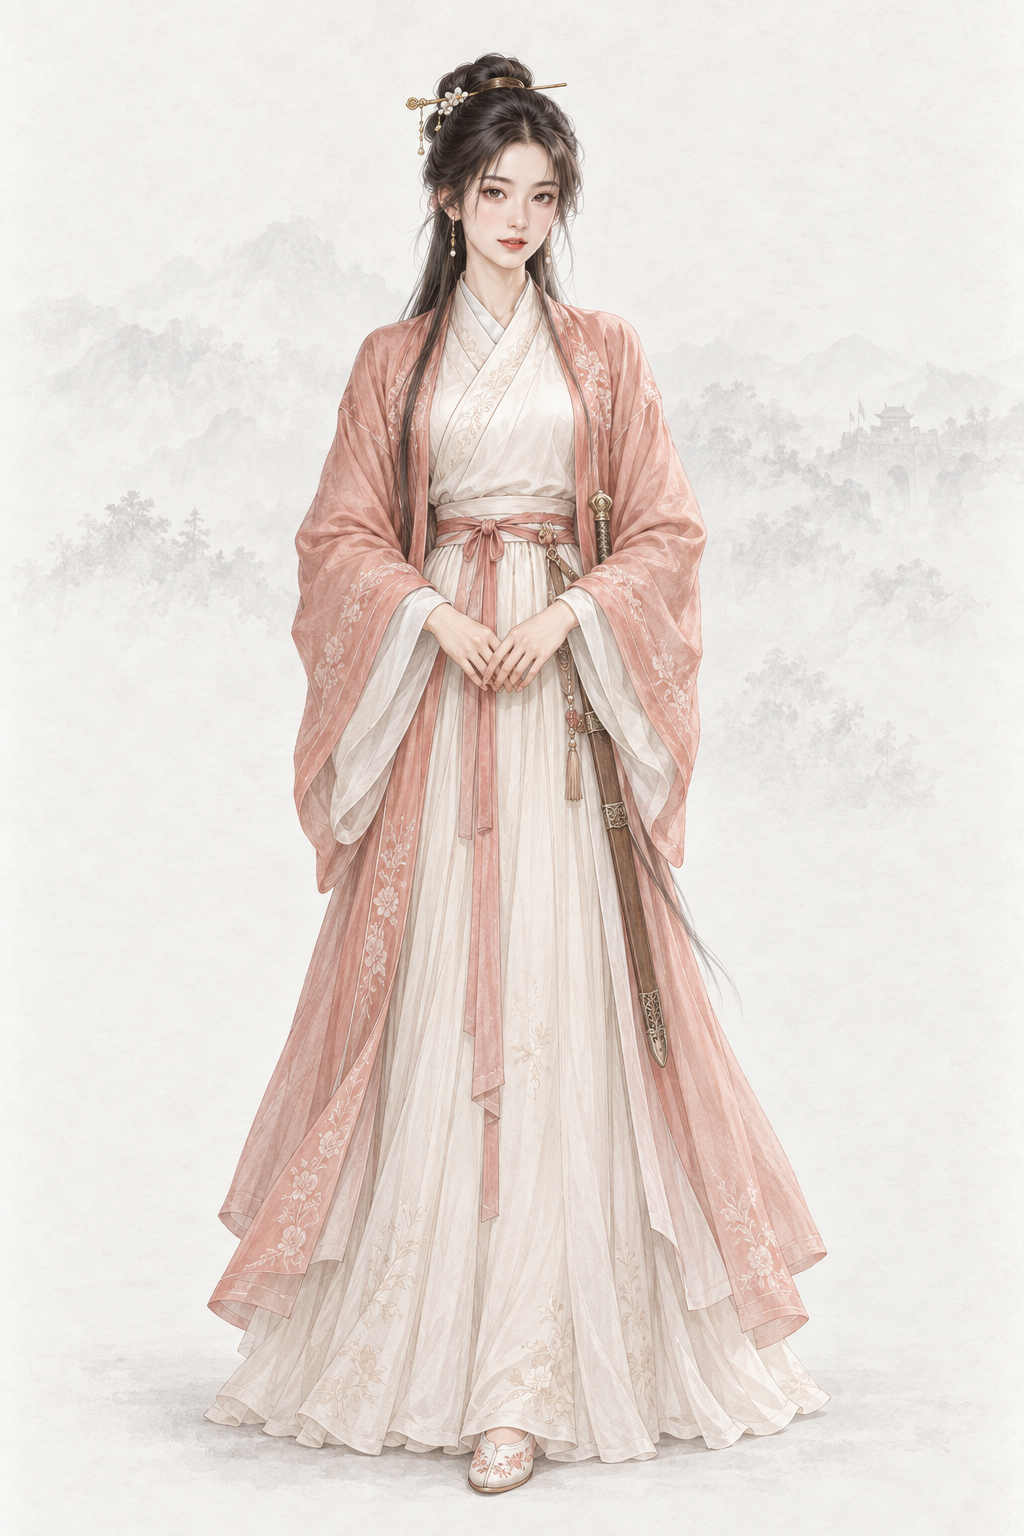
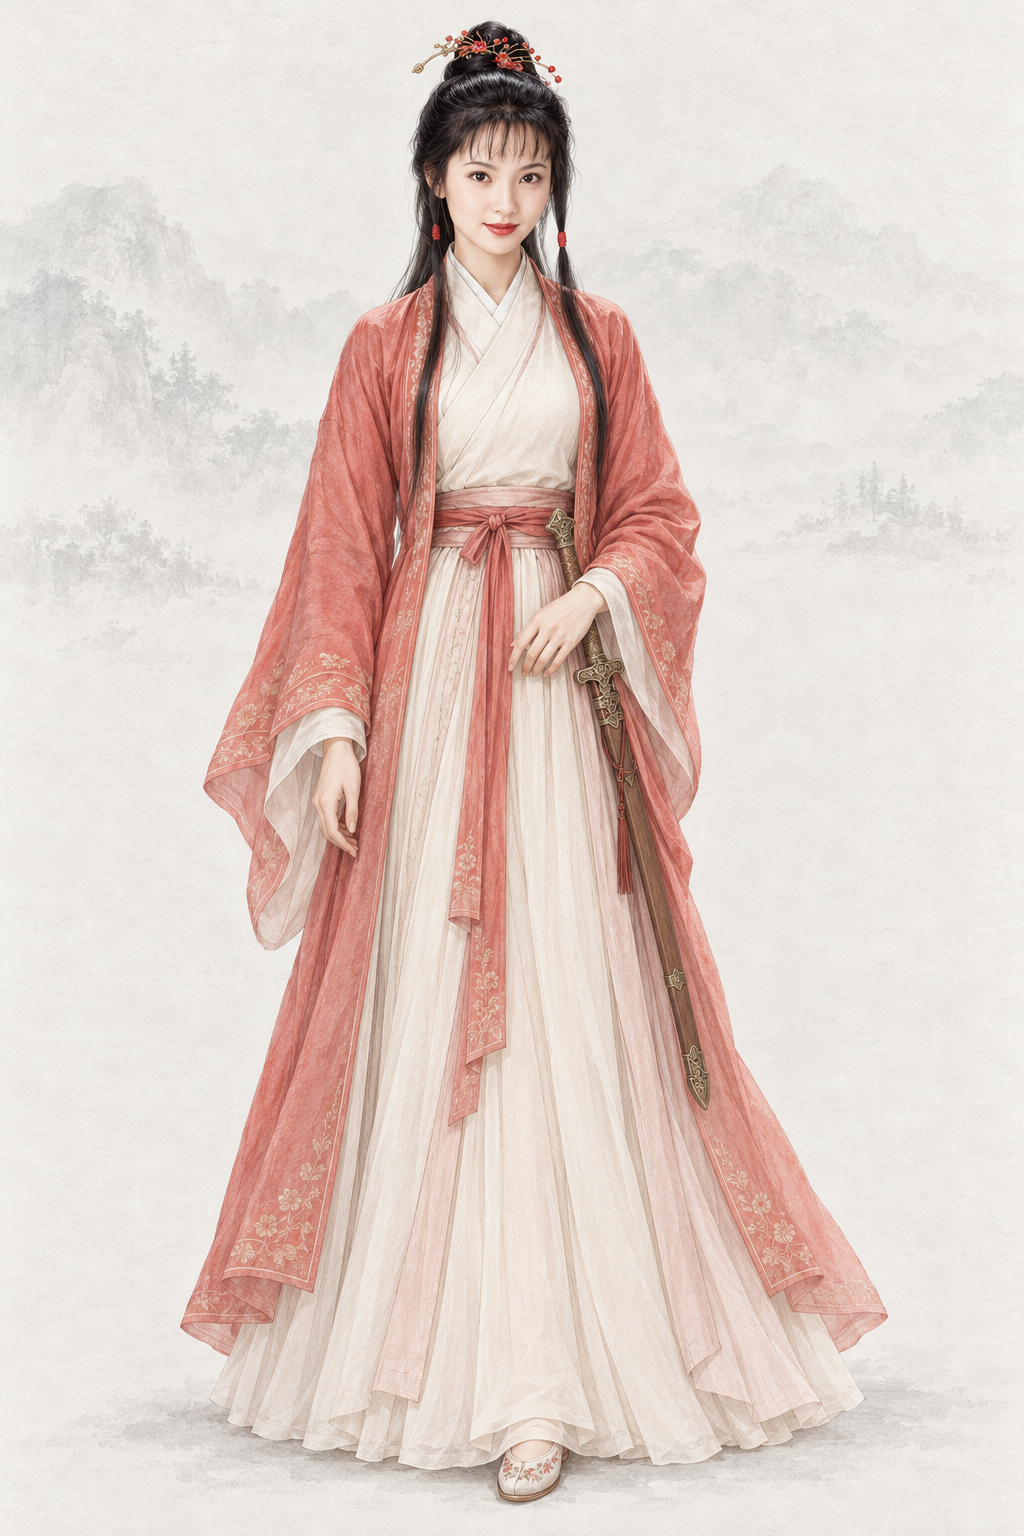
assets(character): por_npc_guofu__ch03_youth_preinjury_base 郭芙（codex · AR-32 经典剧照 + 基线）
参考 1995 TVB《神雕侠侣》 剧照（guofu_1995_fumingxian.jpg）与两张同性别基线重出；提示词写回、frontmatter 加 classic_ref。

diff --git a/assets/default/prompts/characters/ch03-shendiao/npc_guofu.md b/assets/default/prompts/characters/ch03-shendiao/npc_guofu.md
@@ -18,13 +18,40 @@ references:
 status: redo
 realism_revision: user_identity_pose_20261001
 redo_reason: "旧图以剧照为第一身份参考生成（A 级肖像风险；REVIEW-portraits-A 待作者裁定项，按默认重出），按原著外貌用文字原创重做"
-reference_upload: []
+reference_upload:
+- .agents/coord/imagegen-reference/identity-20261001/shendiao/guofu_1995_fumingxian.jpg
+- assets/default/baseline/character/female/ref_npc_wangyuyan__ch01_base01.png
+- assets/default/baseline/character/female/ref_npc_xiaolongnv__ch03_base01.png
 codex_prompt_rev: 2026-10-02
+classic_ref:
+  version: 1995 TVB《神雕侠侣》
+  stills:
+  - .agents/coord/imagegen-reference/identity-20261001/shendiao/guofu_1995_fumingxian.jpg
 ---
 
 # 郭芙 · 人物写实修正
 
 ## Gemini 提示词
+
+> 2026-10-02 AR-32 重出（5 号出图员，codex exec · image_gen）：主要角色改为参考经典影视版剧照加项目基线生成。上传顺序：1995 TVB《神雕侠侣》 剧照 1 张（guofu_1995_fumingxian.jpg），最后两张为同性别画风基线（缩小版 JPEG）。剧照只借造型、气质与面部特征，画面按项目画风重绘、不复制照片。上一版（AR-31 文字版）保留在下一节作历史。
+
+```text
+生成一张 2:3 竖幅全身人物立绘：单人、单一视角、完整全身——头顶、双手、双脚和手中器物的两端都在画面内，四周留出自然空白；人物站姿自然，身体基本朝向正面，头部端正（不歪头、不仰不俯），镜头平视。
+【画风】写实手绘古风人物插画，与本项目写实武侠角色立绘同一画风，像功力深厚的画师用细腻笔触画出的真实美人。手绘插画质感，不是 CG 渲染：不要过度光滑的皮肤、完美对称的五官、塑料高光、过度锐利的发丝；保留自然的笔触和细微不完美。肌肤细腻自然，看得见极细的肤理和自然的左右不对称，不磨皮、不油亮、不打粉；头发是一缕缕自然的发丝和少量碎发；布料看得出经纬纹理、厚薄和自然垂坠的褶皱，干净完整；整体设色低饱和、雅致；柔和的自然光从左上方照来，明暗过渡自然，不打舞台光、轮廓光或美颜柔光。不是照片，不是三维渲染，不是动漫或游戏 CG，也不是油画（没有厚涂笔触和画布纹理）。
+【背景】不透明的暖浅灰色纸底，只在远处有极淡的水墨远山和薄雾，大面积留白；人物与背景明暗分明、轮廓边缘干净完整（后续要自动抠图），水墨和纸纹只在背景里，不侵入人物和衣服；脚下只有很淡的一点接触阴影。
+【人物】郭芙，《神雕侠侣》郭靖、黄蓉的长女，襄阳城里的大小姐；英雄大会前后、断杨过手臂之前。美丽骄矜、心直口快、被宠坏了。
+【年龄与体态】约二十岁的成年年轻女子，身材匀称。成年女性的五官骨相与身体比例（约 7 头身），衣着完整端庄、不透明、不暴露、不性感化。
+【经典造型】以九十年代中期经典港剧里那位明艳骄矜的郭大小姐为蓝本（见剧照）：明艳的鹅蛋脸、柳眉大眼、神情自信娇矜；乌发挽髻、髻上点缀一朵红色珠花，鬓边长发垂肩；衣饰讲究的大小姐打扮。
+【面容】明艳的鹅蛋脸；柳眉、一双明亮的大眼睛，眼神自信而娇矜；鼻梁秀挺；唇形饱满，嘴角微扬带一点骄气；肌肤白皙。继承了母亲的美貌，但是她自己的脸（不要复制黄蓉）。美丽骄傲的大小姐（原创扩展）。
+【发式】乌发挽成精致的发髻，插一支金簪和一小朵红色珠花，鬓边两缕长发垂到肩前。
+【服饰】珊瑚红色短褙子、暖白交领右衽内衫、浅色长裙，腰系丝绦，绣鞋；衣料讲究。
+【道具】左腰挂一柄普通长剑，完整收在浅棕色剑鞘里。
+【姿态与神情】挺胸站立，神情自信娇矜。
+【不要】画面里不要任何文字、题款、印章、签名、水印、边框、分格或多视图；不要第二个人；不要幼态（童颜、娃娃脸、婴儿肥、儿童或少年身材、大头小身）；不要塑料感皮肤、磨皮美颜、网红脸（尖下巴大眼高鼻的模板脸）、过度对称、浓妆、偶像式打光、蜡像感；不要照片质感、三维渲染或动漫大眼；不要歪头、斜镜头；不要多指、缺指（设定的伤残除外）、手与器物粘连或悬空；汉式交领必须右衽（穿着者的左襟压在右襟上），不要左衽（设定为少数民族服制的除外），不要水平镜像；不要现代物品、发光特效、法阵或能量光。不要少女或儿童身材、娃娃脸；不要复制黄蓉的脸；不要出鞘的剑或血迹；不要恶毒的表情。
+【参考图】随提示词上传的参考图共 3 张，按顺序：第 1 张是这个角色经典影视造型的剧照：借鉴其发型、服饰、配色、标志道具、气质和面部特征，让人一眼认出是这个角色；但必须重新绘制成本项目的画风，不要照片质感，不要照搬剧照的构图、光影、背景和姿势，也不要做成照片修图；剧照与上文文字有出入时，以上文文字为准。最后两张是本项目的立绘画风基线：画风、用色、光线、质感和暖浅灰纸底加淡水墨的背景以它们为准——精细写实的数字手绘插画，不是油画，不要厚涂笔触和画布纹理；基线图里人物的长相、年龄、发型、服饰和姿势一律不取。
+```
+
+## AR-31 文字版 Gemini 提示词（2026-10-02 凌晨；AR-32 剧照版之前，历史，不再用于出图）
 
 > 2026-10-02 按原著外貌以文字重写（文字稿由 1 号出图员起草，3 号出图员写回并出图；codex exec · image_gen）：旧图以剧照为第一身份参考生成，属 `tools/agents/reports/REVIEW-portraits-A-ch00-04.md` 的「剧照派生 A 级配角 · 待作者裁定」项，协调者按默认转为本轮重出。不写演员名、不用剧照、原创面孔，禁止幼态；出图只上传两张同性别基线立绘作画风参考，不上传身份参考（`reference_upload: []`）。frontmatter 的 `references` 与本节以下的旧提示词是旧出图管线的历史记录，不再用于出图。
 
